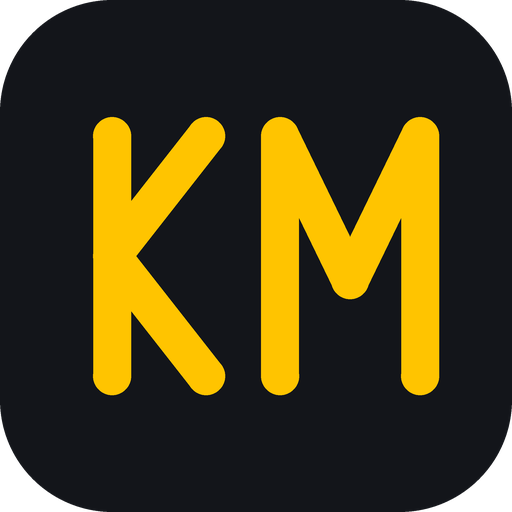
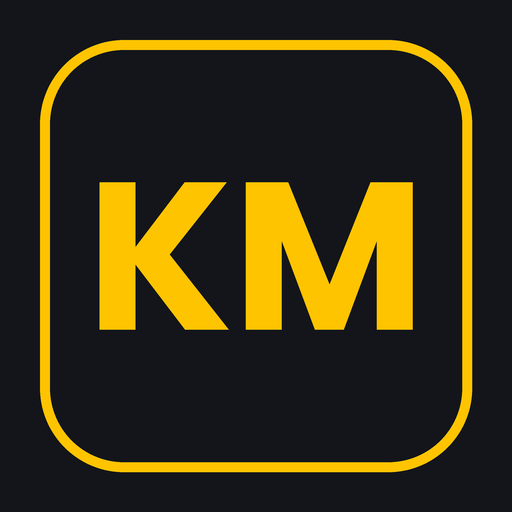
repository.km 1.0.1: 아이콘 변경(KM 테두리)
Claude-Session: https://claude.ai/code/session_01PLtRhReYxBVYzWYFw9vLob

diff --git a/index.html b/index.html
@@ -2,6 +2,6 @@
 <html>
 <head><meta charset="utf-8"><title>KM repository</title></head>
 <body>
-<a href="repository.km-1.0.0.zip">repository.km-1.0.0.zip</a>
+<a href="repository.km-1.0.1.zip">repository.km-1.0.1.zip</a>
 </body>
 </html>
